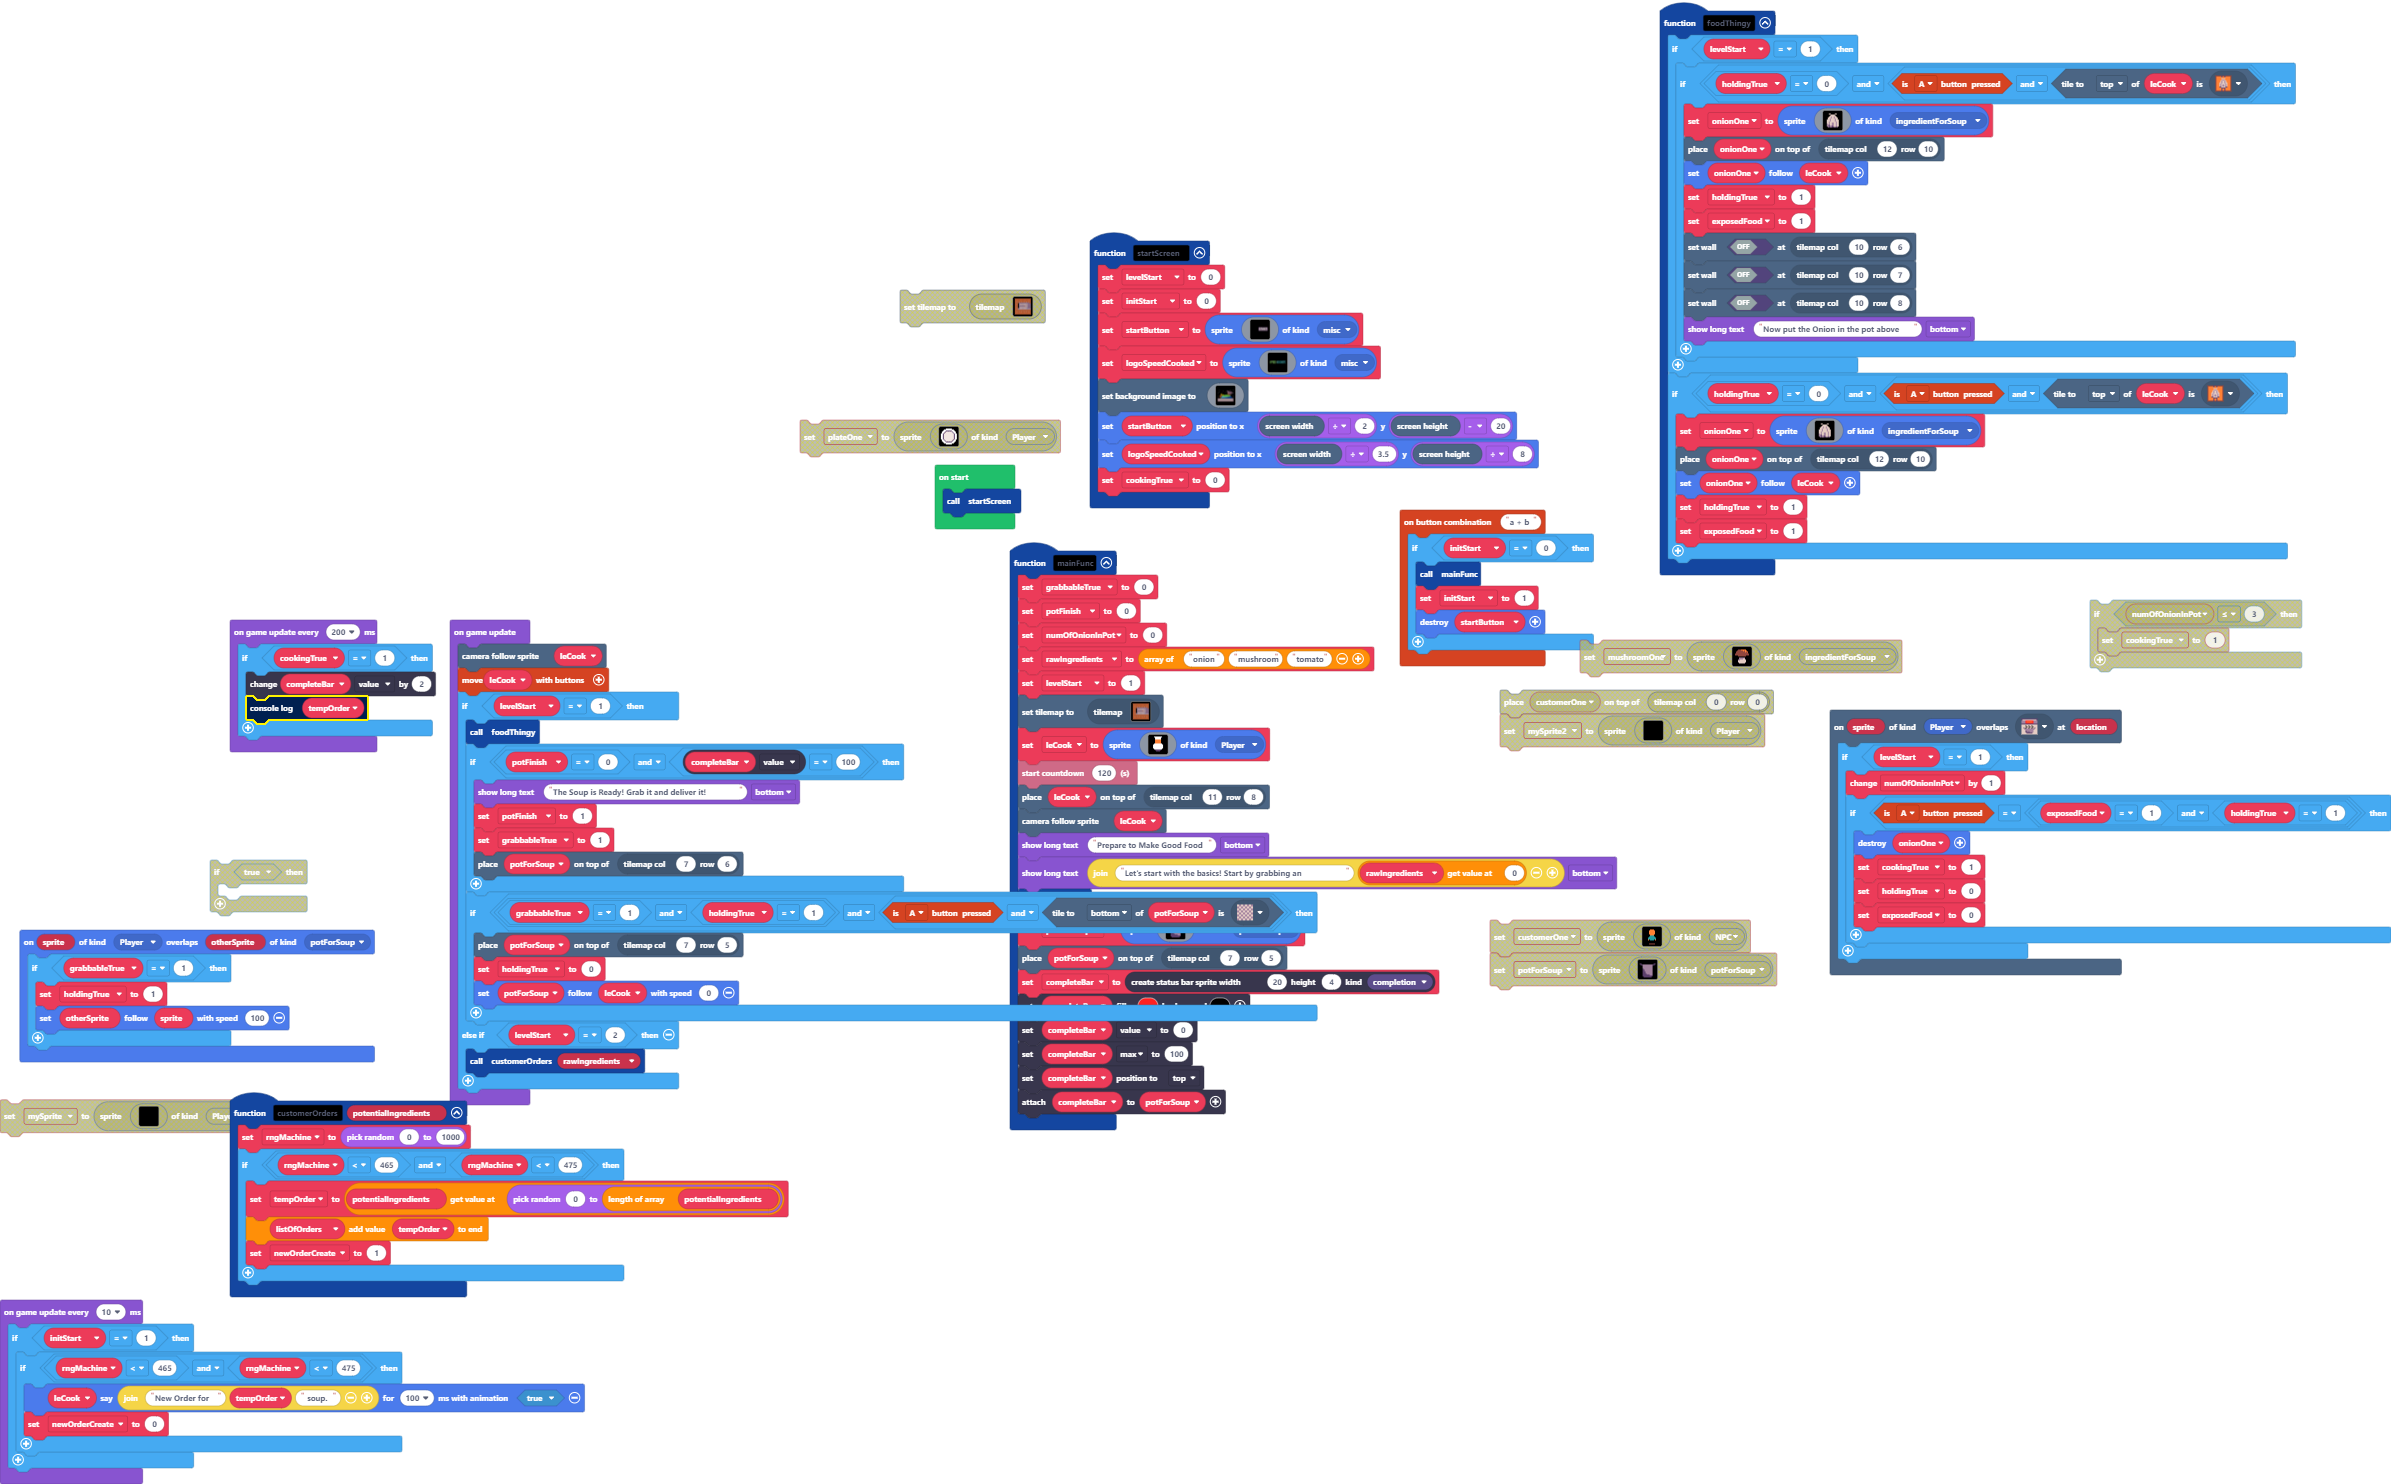
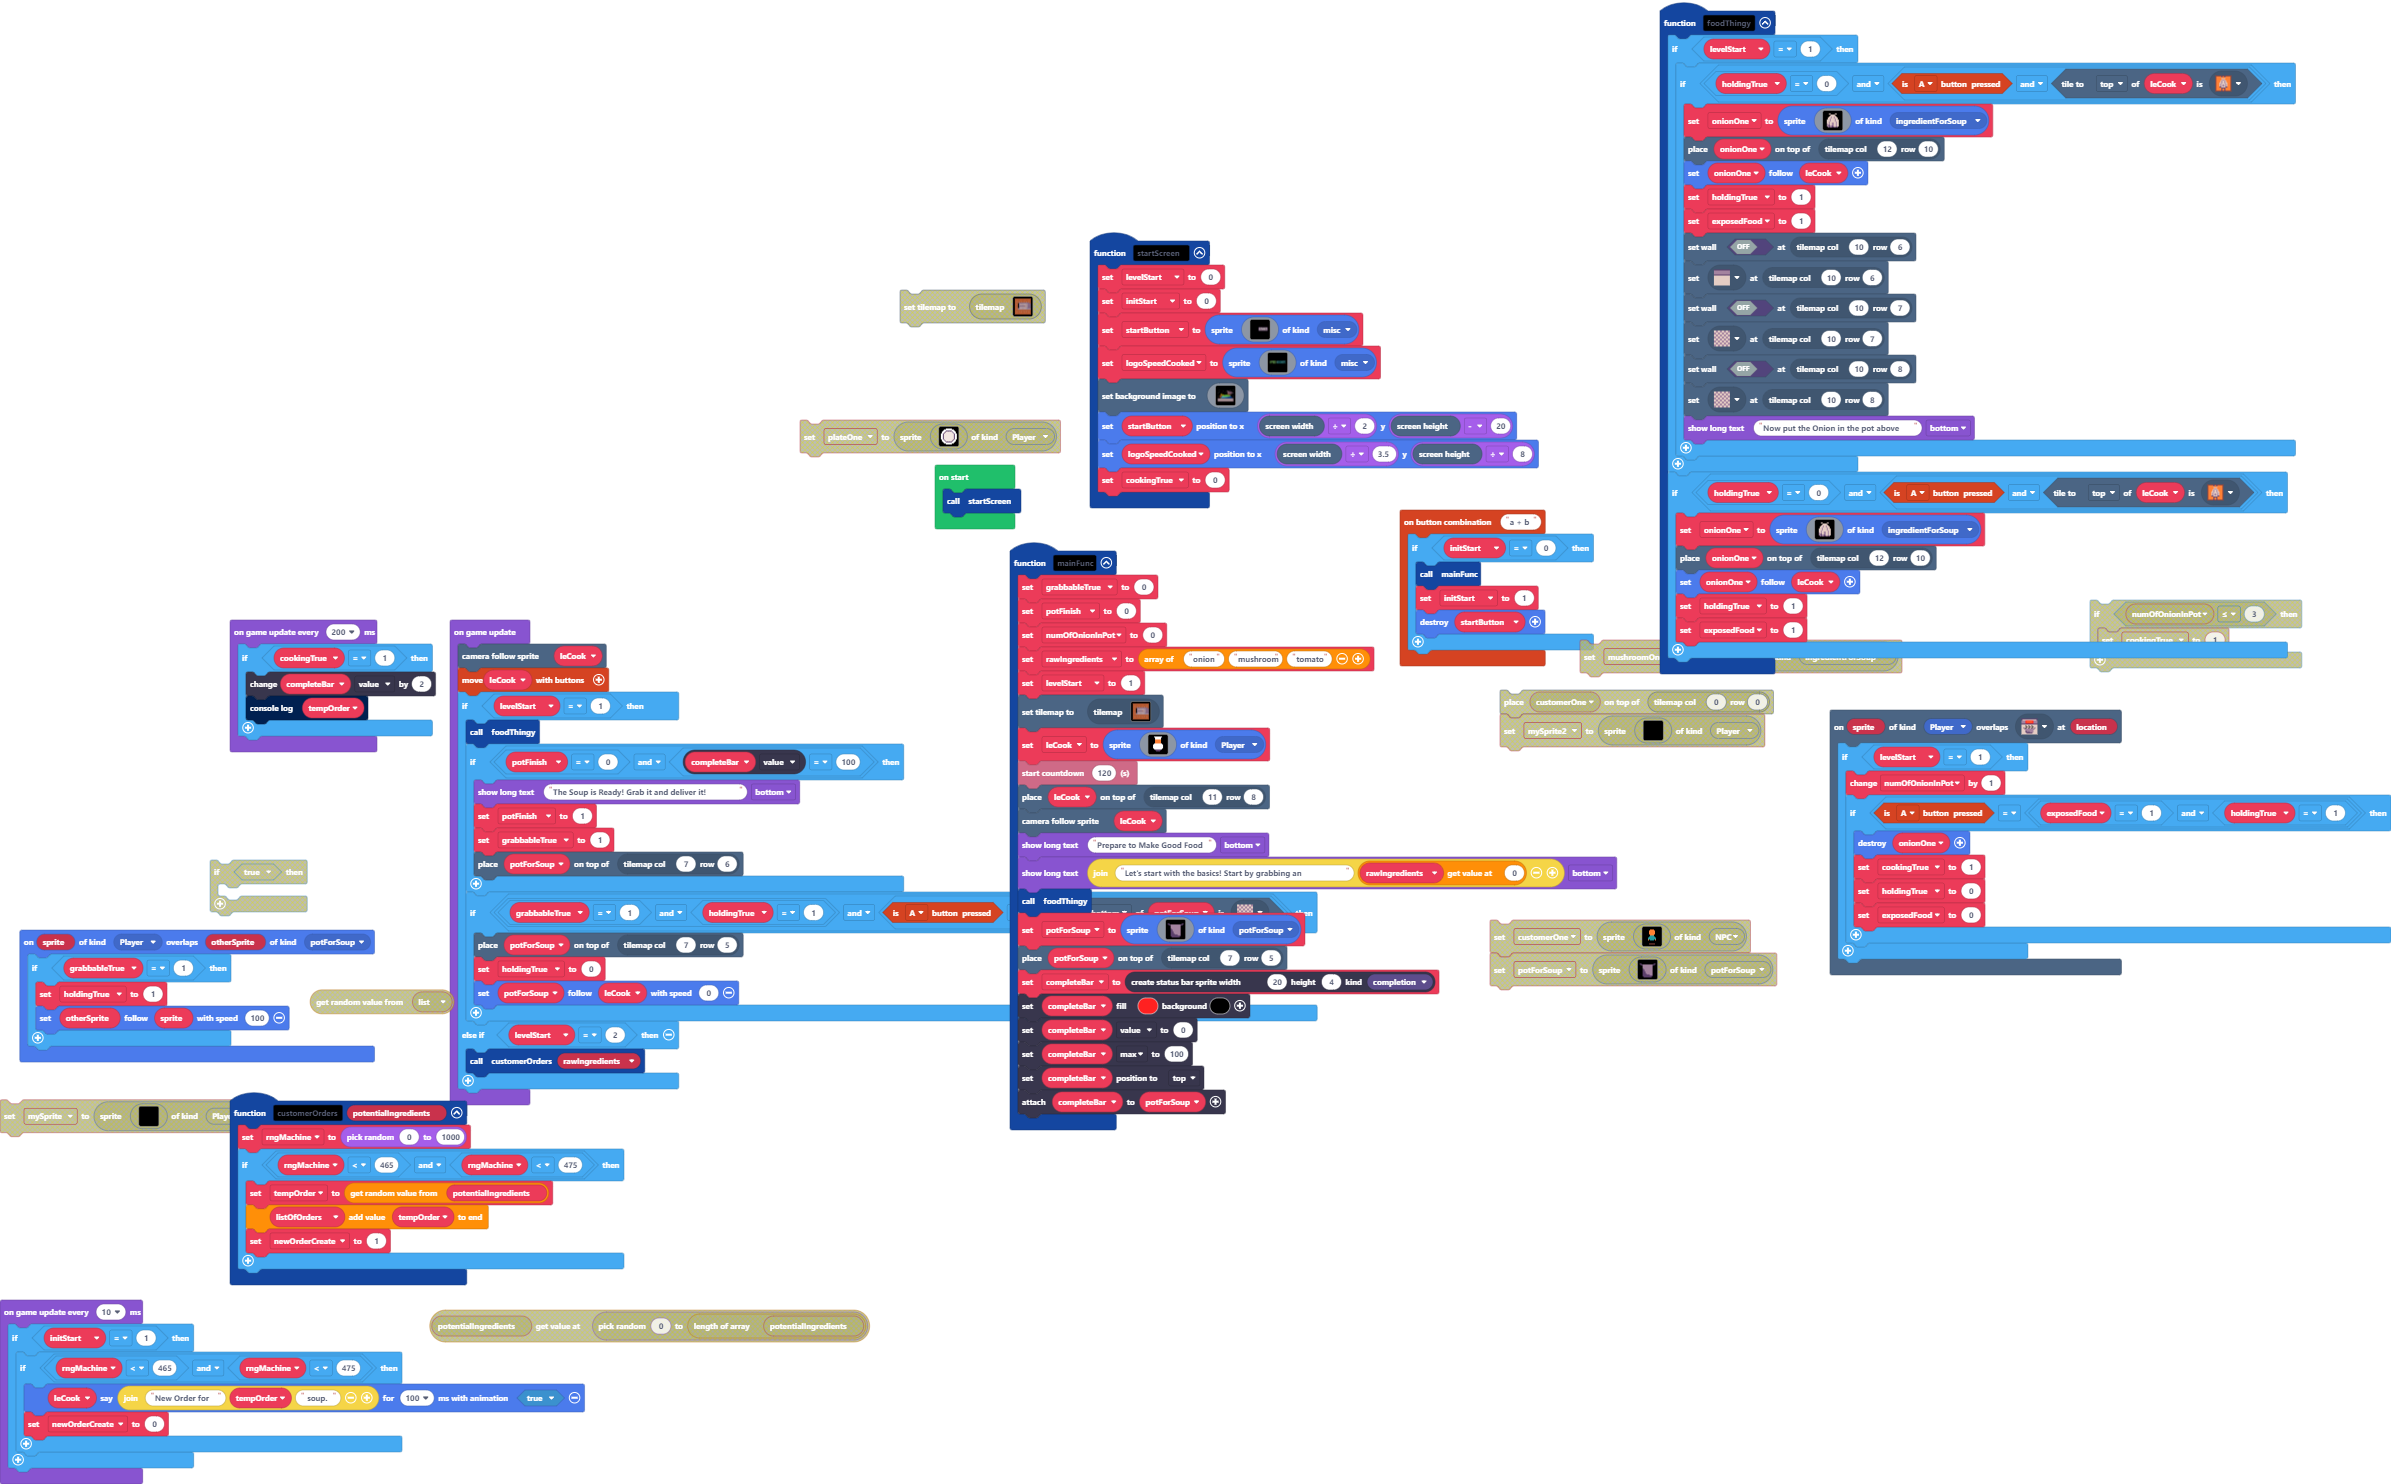
Update main.blocks, main.ts, tilemap.g.jres, tilemap.g.ts

diff --git a/tilemap.g.ts b/tilemap.g.ts
@@ -32,6 +32,8 @@ namespace myTiles {
     export const tile7 = image.ofBuffer(hex``);
     //% fixedInstance jres blockIdentity=images._tile
     export const tile15 = image.ofBuffer(hex``);
+    //% fixedInstance jres blockIdentity=images._tile
+    export const tile16 = image.ofBuffer(hex``);
 
     helpers._registerFactory("tilemap", function(name: string) {
         switch(helpers.stringTrim(name)) {
@@ -76,7 +78,7 @@ namespace myTiles {
 ....................
 ....................
 ....................
-`, [myTiles.transparency16,myTiles.tile1,myTiles.tile3,myTiles.tile4,myTiles.tile8,myTiles.tile9,myTiles.tile10,myTiles.tile12,myTiles.tile13,myTiles.tile14,myTiles.tile5,myTiles.tile7,myTiles.tile15], TileScale.Sixteen);
+`, [myTiles.transparency16,myTiles.tile1,myTiles.tile3,myTiles.tile4,myTiles.tile8,myTiles.tile9,myTiles.tile10,myTiles.tile12,myTiles.tile13,myTiles.tile14,myTiles.tile5,myTiles.tile7,myTiles.tile15,myTiles.tile16], TileScale.Sixteen);
         }
         return null;
     })
@@ -114,6 +116,8 @@ namespace myTiles {
             case "tile7":return tile7;
             case "myTile2":
             case "tile15":return tile15;
+            case "tileFloor0":
+            case "tile16":return tile16;
         }
         return null;
     })

diff --git a/main.ts b/main.ts
@@ -29,7 +29,7 @@ function customerOrders (potentialIngredients: any[]) {
     rngMachine = randint(0, 1000)
     if (rngMachine < 465 && rngMachine < 475) {
         let listOfOrders: any[] = []
-        tempOrder = potentialIngredients[randint(0, potentialIngredients.length)]
+        tempOrder = potentialIngredients._pickRandom()
         listOfOrders.push(tempOrder)
         newOrderCreate = 1
     }
@@ -271,8 +271,11 @@ function foodThingy () {
             holdingTrue = 1
             exposedFood = 1
             tiles.setWallAt(tiles.getTileLocation(10, 6), false)
+            tiles.setTileAt(tiles.getTileLocation(10, 6), assets.tile`table`)
             tiles.setWallAt(tiles.getTileLocation(10, 7), false)
+            tiles.setTileAt(tiles.getTileLocation(10, 7), assets.tile`tileFloor`)
             tiles.setWallAt(tiles.getTileLocation(10, 8), false)
+            tiles.setTileAt(tiles.getTileLocation(10, 8), assets.tile`tileFloor`)
             game.showLongText("Now put the Onion in the pot above", DialogLayout.Bottom)
         }
     }
